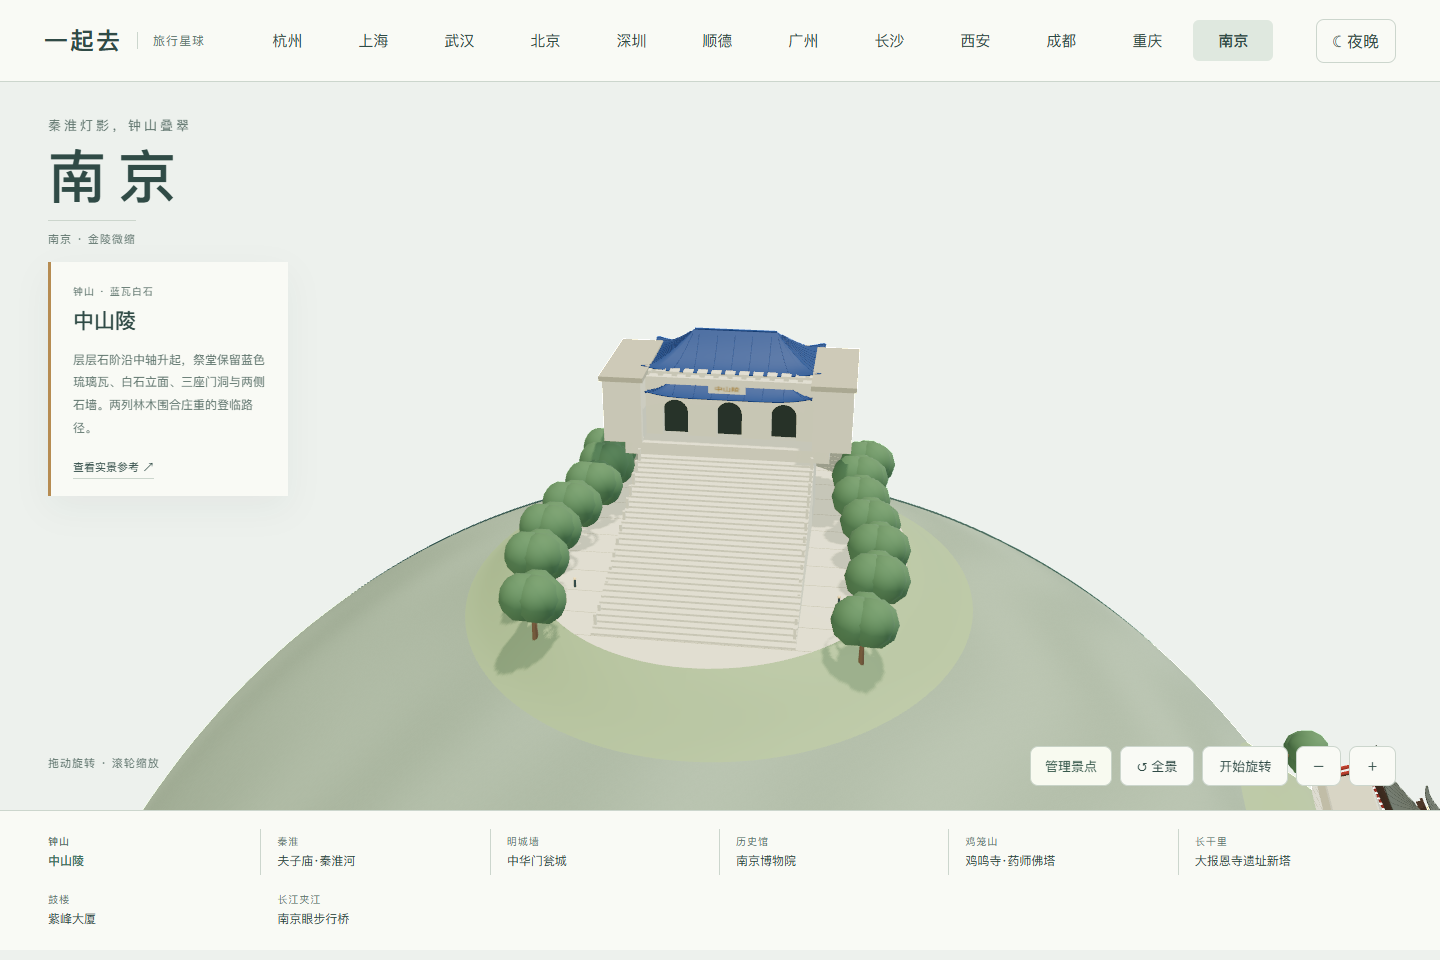
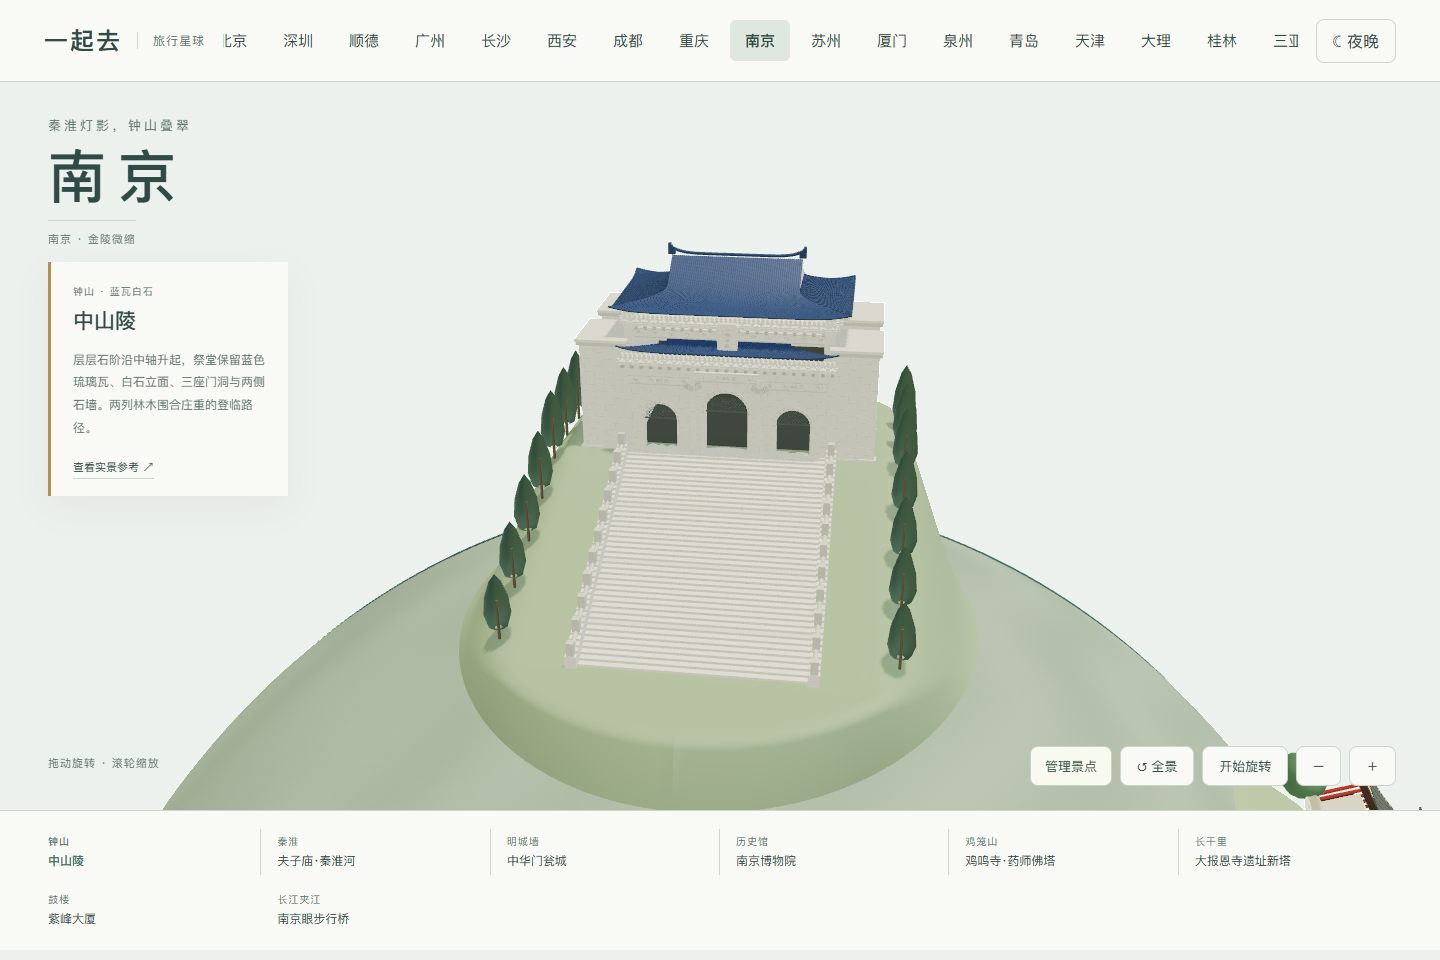
Refine Sun Yat-sen Mausoleum stonework roof and hillside

diff --git a/web/nanjing-mausoleum.js b/web/nanjing-mausoleum.js
@@ -1,0 +1,77 @@
+import * as THREE from 'three';
+import {palette,site,disc,paving,finish,archWall} from './nanjing-kit.js';
+
+function stone(k,color){const m=k.mat(color,.94,.02);m.onBeforeCompile=s=>{s.vertexShader='varying vec3 memorialStone;\n'+s.vertexShader.replace('#include <begin_vertex>','#include <begin_vertex>\nmemorialStone=position;');s.fragmentShader='varying vec3 memorialStone;\n'+s.fragmentShader.replace('#include <color_fragment>',`#include <color_fragment>
+ float row=floor(memorialStone.y*54.0);float joint=step(.042,fract(memorialStone.y*54.0))*step(.025,fract((memorialStone.x+memorialStone.z)*19.0+mod(row,2.0)*.5));
+ float grain=fract(sin(dot(floor(memorialStone*1800.0),vec3(12.98,43.6,77.3)))*43758.5);
+ diffuseColor.rgb*=mix(.90,1.0,joint)*mix(.97,1.015,grain);`);};m.customProgramCacheKey=()=> 'mausoleum-stone-v1';m.userData.night={color:new THREE.Color('#e6ddc5'),intensity:.035};return m;}
+function inscription(k,g,text,w,h,x,y,z,vertical=false){
+ if(typeof document==='undefined')return;const c=document.createElement('canvas');c.width=vertical?192:640;c.height=vertical?640:160;const ctx=c.getContext('2d');ctx.clearRect(0,0,c.width,c.height);ctx.fillStyle='#b6974f';ctx.font=`${vertical?125:105}px 'KaiTi','STKaiti','Microsoft YaHei',serif`;ctx.textAlign='center';ctx.textBaseline='middle';
+ if(vertical)Array.from(text).forEach((letter,i)=>ctx.fillText(letter,c.width/2,80+i*155));else ctx.fillText(text,c.width/2,c.height/2,c.width-30);
+ const tex=new THREE.CanvasTexture(c);tex.colorSpace=THREE.SRGBColorSpace;const m=k.mat('#ffffff',.84,.05);m.map=tex;m.transparent=true;m.alphaTest=.1;m.depthWrite=false;m.userData.night={color:new THREE.Color('#d9c497'),intensity:.06};k.mesh(g,new THREE.PlaneGeometry(w,h),m,x,y,z);
+}
+function curvedRoof(k,g,p,w,d,y,h,z,{shed=false}={}){
+ const pos=[],idx=[],ridge=w*.28;
+ function point(side,u,v){const sideHip=side>1,r=sideHip?.45+.55*v:v,extent=ridge+(w/2-ridge)*THREE.MathUtils.smoothstep(r,.45,1),a=u*2-1;let x,zz;
+  if(sideHip){x=(side===2?1:-1)*extent;zz=a*d/2*r;}else{x=a*extent;zz=(side===0?1:-1)*d/2*r;}
+  return [x,y+h*(1-r)**1.45+.014*Math.abs(a)**7*r**6,z+zz];}
+ const sides=shed?[0]:[0,1,2,3],N=64,R=18;
+ for(const side of sides){const start=pos.length/3;for(let j=0;j<=R;j++)for(let i=0;i<=N;i++)pos.push(...point(side,i/N,j/R));for(let j=0;j<R;j++)for(let i=0;i<N;i++){const a=start+j*(N+1)+i,b=a+N+1;idx.push(a,a+1,b,a+1,b+1,b);}
+  for(let i=0;i<=N;i++){const pts=[];for(let j=0;j<=12;j++){const v=point(side,i/N,j/12);v[1]+=.0007;pts.push(v);}k.line(g,pts,.0004,p.tileRib);}
+  k.line(g,Array.from({length:65},(_,i)=>point(side,i/64,1)),.0025,p.tileEdge);
+  for(let i=0;i<=N;i++){const pt=point(side,i/N,1);const cap=k.mesh(g,new THREE.CircleGeometry(.0016,8),p.tileEdge,pt[0],pt[1]-.001,pt[2]+(side===0?.001:0));if(side===1)cap.rotation.y=Math.PI;}
+ }
+ const geo=new THREE.BufferGeometry();geo.setAttribute('position',new THREE.Float32BufferAttribute(pos,3));geo.setIndex(idx);geo.computeVertexNormals();p.blue.side=THREE.DoubleSide;k.mesh(g,geo,p.blue);
+ if(shed)return;
+ for(const side of [-1,1]){
+  const shape=new THREE.Shape();shape.moveTo(-d*.225,y+h*.55**1.45);shape.lineTo(0,y+h);shape.lineTo(d*.225,y+h*.55**1.45);shape.closePath();const face=k.mesh(g,new THREE.ShapeGeometry(shape),p.pale,side*ridge,0,z);face.rotation.y=side*Math.PI/2;
+  const ridgeLine=[];for(let i=0;i<=24;i++)ridgeLine.push([(i/24-.5)*ridge*2,y+h+.007+.015*Math.abs(i/12-1)**7,z]);k.line(g,ridgeLine,.004,p.tileEdge);
+  for(let i=0;i<4;i++){const xx=side*(ridge-.005+i*.004);k.box(g,.007,.012+i*.006,.012,p.tileEdge,xx,y+h+.010+i*.003,z);}
+ }
+}
+function brackets(k,g,p,w,y,z,count,upper){
+ for(let i=0;i<count;i++){const x=(i/(count-1)-.5)*w;k.box(g,.009,.014,.012,p.shade,x,y-.004,z);
+  for(let tier=0;tier<(upper?3:2);tier++){const yy=y+tier*.006,zz=z+tier*.004;k.box(g,.019+tier*.007,.004,.014,p.pale,x,yy,zz);k.box(g,.005,.006,.020+tier*.007,p.pale,x,yy+.003,zz);for(const s of [-1,1])k.box(g,.005,.007,.010,p.pale,x+s*(.007+tier*.003),yy+.005,zz);}
+ }
+ for(const offset of [0,.006])for(let i=0;i<count*2;i++){const m=k.box(g,.008,.008,.010,p.pale,(i/(count*2-1)-.5)*w,y+.023+offset,z+.011);m.rotation.z=Math.PI/4;}
+}
+function scroll(k,g,p,x,y,z,r){const pts=[];for(let j=0;j<27;j++){const t=j/26,a=t*Math.PI*4,rr=r*(1-t*.91);pts.push([x+Math.cos(a)*rr,y+Math.sin(a)*rr,z]);}k.line(g,pts,.0007,p.carving);}
+function frieze(k,g,p,w,h,x,y,z){k.box(g,w,h,.009,p.pale,x,y,z);for(const side of [-1,1])k.box(g,w,.002,.011,p.carving,x,y+side*h*.44,z+.002);const n=Math.round(w/.045);for(let i=0;i<n;i++){const xx=x+((i+.5)/n-.5)*w;scroll(k,g,p,xx,y,z+.0054,h*.24);}}
+function doorway(k,g,p,x,y,z,r,spring){
+ const shape=new THREE.Shape(),outer=r+.009;shape.moveTo(-outer,0);shape.lineTo(-outer,spring);shape.absarc(0,spring,outer,Math.PI,0,true);shape.lineTo(outer,0);shape.closePath();const hole=new THREE.Path();hole.moveTo(-r,0);hole.lineTo(r,0);hole.lineTo(r,spring);hole.absarc(0,spring,r,0,Math.PI,false);hole.closePath();shape.holes.push(hole);
+ k.mesh(g,new THREE.ExtrudeGeometry(shape,{depth:.008,bevelEnabled:false,curveSegments:28}),p.pale,x,y,z);
+ for(let i=0;i<13;i++){const a=i/12*Math.PI;scroll(k,g,p,x+Math.cos(a)*(r+.0045),y+spring+Math.sin(a)*(r+.0045),z+.0085,.0025);}
+ // Open lower entrance; bronze tracery is confined to the transom.
+ const frame=new THREE.Group();frame.position.set(x,y,z-.005);g.add(frame);k.box(frame,r*1.94,.003,.003,p.bronze,0,spring,0);
+ for(let row=0;row<4;row++)for(let col=-6;col<=6;col++){const xx=col*.009,yy=spring+.006+row*.010;if(xx*xx+(yy-spring)**2>(r-.004)**2)continue;const ring=k.mesh(frame,new THREE.TorusGeometry(.0043,.0007,4,6),p.bronze,xx,yy,0);ring.rotation.z=Math.PI/6;}
+}
+export function mausoleum(k){
+ const g=new THREE.Group(),p=palette(k),ground=site(k,g,.70,.78);const initialSite=g.children[0];g.remove(initialSite);initialSite.geometry.dispose();p.pale=stone(k,'#c9c9be');p.shade=k.mat('#a5a99f',.94);p.carving=k.mat('#b7b9ae',.93);p.bronze=k.mat('#58615a',.72,.18);p.blue=k.mat('#29466e',.46,.12);p.tileRib=k.mat('#2e486b',.46,.12);p.tileEdge=k.mat('#314863',.55,.10);
+ for(const key of ['blue','tileRib','tileEdge'])p[key].userData.night={color:new THREE.Color('#9ab6d2'),intensity:.06};
+ const hillside=k.mat('#8b9e80',.98);hillside.userData.landscape=true;const grade=(x,z)=>THREE.MathUtils.lerp(ground(x,z),.021+.282*THREE.MathUtils.clamp((.50-z)/.65,0,1),(1-THREE.MathUtils.smoothstep(Math.abs(x),.43,.69))*(1-THREE.MathUtils.smoothstep(-z,.60,.77))*(1-THREE.MathUtils.smoothstep(Math.hypot(x/.70,z/.78),.96,1)));disc(k,g,.70,.78,grade,hillside);
+ paving(k,g,p,.35,.56);
+ // Broad flights and continuous sloping parapets lead to the same arrival platform.
+ const count=42,step=.0155,top=.282,front=.50;for(let i=0;i<count;i++){const h=top*(i+1)/count;k.box(g,.54,h,step+.0004,p.pale,0,.021+h/2,front-i*step);}
+ for(const side of [-1,1]){for(let i=0;i<=count;i++){const z=front+.009-i*step,y=.021+top*Math.min(i+1,count)/count;k.box(g,.027,y+.025,.0184,p.pale,side*.285,(y+.025)/2,z);if(i%4===0)k.box(g,.018,.035,.018,p.carving,side*.285,y+.043,z);}k.beam(g,[side*.285,.055,front+.009],[side*.285,.337,front-count*step+.009],.006,p.carving);}
+ const y=.303,z=-.355; k.box(g,.81,.028,.44,p.pale,0,y-.014,z);k.box(g,.78,.265,.42,p.pale,0,.155,z);
+ // The recessed interior sits behind three genuine front portals; no flat black decals.
+ p.pale.userData.memorialFacade=true;
+ archWall(k,g,{w:.56,h:.265,d:.030,y,z:z+.205,mat:p.pale,openings:[{x:-.18,r:.046,spring:.092,bottom:0},{x:0,r:.058,spring:.120,bottom:0},{x:.18,r:.046,spring:.092,bottom:0}]});
+ k.box(g,.56,.380,.025,p.pale,0,y+.190,z-.175);for(const side of [-1,1])k.box(g,.028,.380,.36,p.pale,side*.268,y+.190,z+.005);
+ const interior=k.mat('#4a514a',.98);k.box(g,.53,.25,.002,interior,0,y+.130,z-.160);k.box(g,.53,.004,.35,interior,0,y+.003,z+.005);
+ for(const side of [-1,1])for(const back of [-1,1]){const x=side*.34,zz=z+back*.133;k.box(g,.12,.292,.166,p.pale,x,y+.146,zz);k.box(g,.135,.012,.18,p.carving,x,y+.297,zz);k.box(g,.14,.007,.184,p.pale,x,y+.305,zz);}
+ for(const [x,r,spring]of [[-.18,.046,.092],[0,.058,.120],[.18,.046,.092]])doorway(k,g,p,x,y,z+.224,r,spring);
+ for(const x of [-.09,.09])k.box(g,.015,.220,.024,p.pale,x,y+.11,z+.225);
+ for(const [x,label]of [[-.18,'權民'],[0,'生民'],[.18,'族民']]){const yy=y+(x===0?.221:.206);frieze(k,g,p,.17,.026,x,yy,z+.228);inscription(k,g,label,.060,.018,x,yy,z+.234);}
+ for(const x of [-.09,.09])for(const side of [-1,1]){const m=k.box(g,.026,.015,.022,p.carving,x+side*.010,y+.192,z+.226);m.rotation.z=side*.45;scroll(k,g,p,x+side*.013,y+.194,z+.239,.006);}
+ brackets(k,g,p,.56,y+.247,z+.225,23,false);curvedRoof(k,g,p,.59,.19,y+.285,.044,z+.140,{shed:true});
+ k.box(g,.54,.060,.32,p.pale,0,y+.324,z);frieze(k,g,p,.53,.028,0,y+.321,z+.175);brackets(k,g,p,.55,y+.340,z+.176,23,true);
+ for(const side of [-1,1]){const face=new THREE.Group();face.position.set(side*.275,0,z);face.rotation.y=side*Math.PI/2;g.add(face);frieze(k,face,p,.30,.028,0,y+.321,0);brackets(k,face,p,.31,y+.340,0,13,true);}
+ curvedRoof(k,g,p,.64,.39,y+.380,.108,z);
+ const tablet=new THREE.Shape();tablet.moveTo(-.025,0);tablet.lineTo(.025,0);tablet.lineTo(.029,.068);tablet.lineTo(.021,.077);tablet.lineTo(-.021,.077);tablet.lineTo(-.029,.068);tablet.closePath();k.mesh(g,new THREE.ExtrudeGeometry(tablet,{depth:.008,bevelEnabled:true,bevelSize:.001,bevelThickness:.001,bevelSegments:1}),p.pale,0,y+.286,z+.202);inscription(k,g,'天地正氣',.031,.065,0,y+.326,z+.211,true);
+ // Cypress rows support the ascent without hiding the hall behind round crowns.
+ const needles=k.mat('#4e6755',.98),bark=k.mat('#655a47',.98);
+ for(const side of [-1,1])for(let i=0;i<7;i++){const x=side*.48,z=.44-i*.14,y=grade(x,z),h=.18+i*.006;k.cyl(g,.003,.004,h*.6,bark,x,y+h*.3,z,6);const profile=[[0,h],[.015,h*.88],[.029,h*.64],[.034,h*.38],[.025,h*.22],[.009,h*.18]].map(([r,yy])=>new THREE.Vector2(r,yy));k.mesh(g,new THREE.LatheGeometry(profile,9),needles,x,y,z);}
+ finish(k,g,{visitors:[[-.07,.45],[.08,.44]]});
+ for(const side of [-1,1]){const light=new THREE.SpotLight('#e5e6d7',0,1.6,Math.PI*.25,.85,2);light.position.set(side*.40,.34,.16);light.target.position.set(0,.60,-.35);light.userData.nightIntensity=.18;g.add(light,light.target);}return g;
+}

diff --git a/web/nanjing-landmarks.js b/web/nanjing-landmarks.js
@@ -2,7 +2,7 @@ import {mausoleum,museum,fuzimiao} from './nanjing-heritage.js';
 import {zhonghua,jiming} from './nanjing-fortifications.js';
 import {baoen,zifeng,eye} from './nanjing-modern.js';
 export const LANDMARKS=[
- {id:'mausoleum',name:'中山陵',area:'钟山 · 蓝瓦白石',x:-1.08,z:.94,height:.66,distance:3.0,view:[.24,.8,1.8],description:'层层石阶沿中轴升起，祭堂保留蓝色琉璃瓦、白石立面、三座门洞与两侧石墙。两列林木围合庄重的登临路径。',source:'https://zschina.nanjing.gov.cn/lyzx/202504/t20250425_5135983.html'},
+ {id:'mausoleum',name:'中山陵',area:'钟山 · 蓝瓦白石',x:-1.08,z:.94,height:.83,distance:3.0,view:[.24,.8,1.8],description:'宽阔石阶沿林木围合的山坡上升，祭堂补齐蓝琉璃瓦、灰石斗拱、卷草石雕、三座真实门洞和青铜花窗。四角石阙围住主殿，夜间以克制白光照亮石材层次。',source:'https://zschina.nanjing.gov.cn/lyzx/202504/t20250425_5135983.html'},
  {id:'fuzimiao',name:'夫子庙·秦淮河',area:'秦淮 · 檐影画舫',x:1.08,z:.94,height:.49,distance:3.0,view:[.32,.83,1.8],description:'大成殿、两侧廊屋、临水亭与红色照壁围绕秦淮水面。石栏、木格窗和画舫保留尺度层次，夜间用檐下暖光照出水岸。',source:'https://js.cnr.cn/whly/20220418/t20220418_525798755.shtml'},
  {id:'zhonghua',name:'中华门瓮城',area:'明城墙 · 三重瓮城',x:-1.08,z:-.94,height:.42,distance:3.0,view:[.70,1.0,1.8],description:'三重内瓮城、贯通门洞、两层主城台、藏兵洞和两侧登城马道。按现存城台建模，城顶不加已经毁失的木构城楼。',source:'https://wlj.nanjing.gov.cn/ztzl/mcq/gzqk/202302/t20230228_3838766.html'},
  {id:'museum',name:'南京博物院',area:'历史馆 · 仿辽大殿',x:1.08,z:-.94,height:.47,distance:2.9,view:[.25,.68,1.8],description:'宽阔低缓的棕色瓦面、金色屋脊、朱红柱廊、木格门窗和白石台阶。以历史馆大殿为主体，保留两侧配殿与开阔前庭。',source:'https://zfgbpx.nju.edu.cn/7c/d1/c46023a556241/page.htm'},

diff --git a/web/nanjing-heritage.js b/web/nanjing-heritage.js
@@ -1,18 +1,7 @@
 import * as THREE from 'three';
 import {palette,site,paving,steps,grove,sign,finish,hall,hip,cornice,archWall,pond,bridge} from './nanjing-kit.js';
-export function mausoleum(k){
- const g=new THREE.Group(),p=palette(k),ground=site(k,g,.68,.73);paving(k,g,p,.50,.59);
- // One continuous staircase rises to the ceremonial hall, with connected landings.
- for(let i=0;i<40;i++){const h=.224*(i+1)/40,z=.48-i*.019;k.box(g,.48,h,.0195,p.pale,0,.021+h/2,z);}
- const y=.245,z=-.29;k.box(g,.56,.035,.32,p.pale,0,y-.018,z);k.box(g,.46,.18,.20,p.pale,0,y+.09,z-.045);
- archWall(k,g,{w:.48,h:.17,d:.025,y,z:z+.085,mat:p.pale,openings:[-.15,0,.15].map(x=>({x,r:.035,spring:.070,bottom:.001}))});
- const recess=k.mat('#35423b',.93);for(const x of [-.15,0,.15]){const s=new THREE.Shape();s.moveTo(x-.035,.001);s.lineTo(x-.035,.070);s.absarc(x,.070,.035,Math.PI,0,true);s.lineTo(x+.035,.001);s.closePath();k.mesh(g,new THREE.ShapeGeometry(s),recess,0,y,z+.076);}
- for(const x of [-.285,.285]){k.box(g,.105,.18,.30,p.pale,x,y+.09,z+.015);k.box(g,.12,.014,.32,p.stone,x,y+.185,z+.015);}
- hip(k,g,.49,.25,.085,y+.18,p.blue,p.blue,0,z-.045);hip(k,g,.45,.14,.035,y+.13,p.blue,p.blue,0,z+.075);cornice(k,g,0,y+.172,z-.045,.46,.23,p.pale);
- sign(k,g,'中山陵',.10,.026,0,y+.163,z+.151,{background:'#d3d1bc',color:'#a47d36'});
- for(const s of [-1,1]){for(let i=0;i<18;i++){const zz=.46-i*.043,yy=.025+Math.min(.22,Math.max(0,(.37-zz)*.38));k.box(g,.007,.035,.007,p.pale,s*.235,yy+.018,zz);}grove(k,g,ground,Array.from({length:7},(_,i)=>[s*(.39+.03*Math.sin(i)),.44-i*.135,.13]));}
- return finish(k,g,{lamps:[[-.33,.28],[.33,.28],[-.22,-.43],[.22,-.43]],visitors:[[-.06,.40],[.07,.37]]});
-}
+export {mausoleum} from './nanjing-mausoleum.js';
+
 export function museum(k){
  const g=new THREE.Group(),p=palette(k),ground=site(k,g,.75,.59);paving(k,g,p,.65,.40);
  steps(k,g,p,0,.28,.60,12,.105,.22);k.box(g,.90,.106,.40,p.pale,0,.075,-.10);

diff --git a/README.md b/README.md
@@ -1,6 +1,6 @@
 # 一起去 · Travel Planet
 
-用可旋转的 3D 城市星球发现景点，再和朋友一起决定怎么旅行。当前版本 **0.55.4**，支持桌面和手机网页。
+用可旋转的 3D 城市星球发现景点，再和朋友一起决定怎么旅行。当前版本 **0.55.5**，支持桌面和手机网页。
 
 **[上海旅行 · 在线体验](https://43.139.249.151/travel/shanghai-trip.html)** · **[杭州旅行](https://43.139.249.151/travel/)** · **[武汉旅行](https://43.139.249.151/travel/wuhan-trip.html)** · **[武汉纯地图](https://43.139.249.151/travel/wuhan.html)** · **[上海纯地图](https://43.139.249.151/travel/shanghai.html)** · **[北京地图](https://43.139.249.151/travel/beijing.html)** · **[深圳地图](https://43.139.249.151/travel/shenzhen.html)** · **[顺德地图](https://43.139.249.151/travel/shunde.html)** · **[广州地图](https://43.139.249.151/travel/guangzhou.html)** · **[长沙地图](https://43.139.249.151/travel/changsha.html)** · **[西安地图](https://43.139.249.151/travel/xian.html)** · **[成都地图](https://43.139.249.151/travel/chengdu.html)** · **[重庆地图](https://43.139.249.151/travel/chongqing.html)** · **[南京地图](https://43.139.249.151/travel/nanjing.html)** · **[苏州地图](https://43.139.249.151/travel/suzhou.html)** · **[厦门地图](https://43.139.249.151/travel/xiamen.html)** · **[泉州地图](https://43.139.249.151/travel/quanzhou.html)** · **[青岛地图](https://43.139.249.151/travel/qingdao.html)** · **[天津地图](https://43.139.249.151/travel/tianjin.html)** · **[大理地图](https://43.139.249.151/travel/dali.html)** · **[桂林地图](https://43.139.249.151/travel/guilin.html)** · **[三亚地图](https://43.139.249.151/travel/sanya.html)** · **[香港地图](https://43.139.249.151/travel/hongkong.html)** · **[澳门地图](https://43.139.249.151/travel/macau.html)**
 
@@ -37,7 +37,7 @@
 
 重庆新增 **8 组具名地标**：洪崖洞、来福士朝天门、千厮门大桥、重庆大剧院、人民大礼堂、人民解放纪念碑、李子坝单轨穿楼和长江索道。连续河道表现两江交汇，八组分布于两半球；洪崖洞包含临江山墙、错层露台、退后的暗窗、吊脚柱、贯通入口和连续崖坡；保留玻璃连廊、桥塔真开口、绿瓦圆殿、穿楼通道与悬挂轿厢。提供日夜、自由旋转、手机触控和整组管理，重庆尚未接入多人旅行。[查看实拍参考](docs/CHONGQING_REFERENCES.md)。
 
-南京新增 **8 组具名地标**：中山陵、夫子庙秦淮河、中华门瓮城、南京博物院、鸡鸣寺药师佛塔、大报恩寺遗址新塔、紫峰大厦和南京眼。保留连续石阶、贯通藏兵洞、古建木格门窗、玻璃保护塔与倾斜双桥环；双半球布局，支持日夜、近看、手机触控和整组管理。南京当前未接入多人旅行。[查看实拍参考](docs/NANJING_REFERENCES.md)。
+南京新增 **8 组具名地标**：中山陵、夫子庙秦淮河、中华门瓮城、南京博物院、鸡鸣寺药师佛塔、大报恩寺遗址新塔、紫峰大厦和南京眼。中山陵补齐蓝瓦屋面、灰石斗拱、卷草石雕、青铜花窗、真实门洞与承托山坡；保留连续石阶、贯通藏兵洞、古建木格门窗、玻璃保护塔与倾斜双桥环；双半球布局，支持日夜、近看、手机触控和整组管理。南京当前未接入多人旅行。[查看实拍参考](docs/NANJING_REFERENCES.md)。
 
 苏州新增 **8 组具名地标**：苏州博物馆、拙政园、留园冠云峰、虎丘云岩寺塔、寒山寺普明宝塔、东方之门、盘门水陆城门和平江路胡厢使桥。保留几何水院、六角荷亭、穿孔太湖石、砖塔与木塔的不同形制，以及水陆门洞和银灰玻璃尖拱；支持两半球、日夜、自由旋转、手机触控和整组管理。苏州当前未接入多人旅行。[查看实拍参考](docs/SUZHOU_REFERENCES.md)。
 

diff --git a/docs/TESTING.md b/docs/TESTING.md
@@ -231,3 +231,10 @@ python tools/travel-flow-check.py
 324 项完整测试（64.3 秒）、329 项 JavaScript 语法检查与 5 项西安专项通过。新增射线检查验证前向、侧向外廊通透，内室退后，柱子和上层回廊承托真实存在；保留四向券洞、球面落地、双半球净空、日夜材质保色与整组资源释放检查。
 
 2026-11-04 07:22—07:23 直接核看多角度、日夜和 320 画面，修正瓦垄过亮、檐口遮挡及砖缝过强；07:24—07:26 完整浏览器通过八组日夜、整组移除保存恢复、触屏拖动与双指缩放、键盘、320—1440 布局、真实 WebGL 丢失恢复与原城市入口，错误与业务写入为 0。手机为浏览器模拟，未代替物理手机性能验收。
+
+
+## 0.55.5 中山陵祭堂精修
+
+325 项完整测试、330 项 JavaScript 语法和 4 项南京专项通过。新增射线检查验证三座门洞真实通透、中间拱门较高、石墩和后墙完整；保留球面落地、两半球净空、日夜保色、整组灯光与资源释放检查。
+
+2026-11-04 07:36 起对照实拍核看祭堂正侧背、日夜和窄屏，修正屋面拼接缝、后墙空隙、地形重叠和瓦垄亮度。完整浏览器验收八组日夜、模块保存恢复、触控键盘、320—1440、真实 WebGL 丢失恢复及原城市导航，异常与业务写入为 0。手机为浏览器模拟，不代替物理设备性能测试。

diff --git a/docs/NANJING_REFERENCES.md b/docs/NANJING_REFERENCES.md
@@ -24,3 +24,14 @@
 ![中山陵模型](images/nanjing-mausoleum.png)
 
 ![南京博物院夜景模型](images/nanjing-museum-night.png)
+
+
+## 0.55.5 中山陵祭堂精修
+
+对照[祭堂正面近照](https://res.klook.com/image/upload/activities/ocvrupljaddkt5kmpfc9.jpg)、[石雕斗拱侧向近照](https://res.klook.com/image/upload/activities/sfhuuoocd5pxhjjwtbmr.jpg)及[周学鹰、达志翔、马晓的建筑分析](https://m.thepaper.cn/newsDetail_forward_28204567)，补齐歇山蓝瓦、前披檐、原色石斗拱与菱角牙子、卷草石雕和青铜花窗。三座门洞采用真实开口，中间门洞高于两侧；题字按照片位置呈现。四角阙形石块、连续石阶、柏树和承托坡面保持中轴关系。另检索到的「天下為公」照片属于陵门，未混用为祭堂。
+
+屋面和石雕为微缩概括，石阶数量与场地距离经过压缩，不宣称工程测绘精度。管理方图纸链接本轮返回 403，未取得图纸，不以其尺寸声称复原。夜间白光是本项目的展示照明，未声称现实开放或夜游状态。未增加祭堂内部展陈或现实票价信息。
+
+![祭堂侧向细节](images/nanjing-mausoleum-oblique.png)
+
+![祭堂夜间展示](images/nanjing-mausoleum-night.png)
